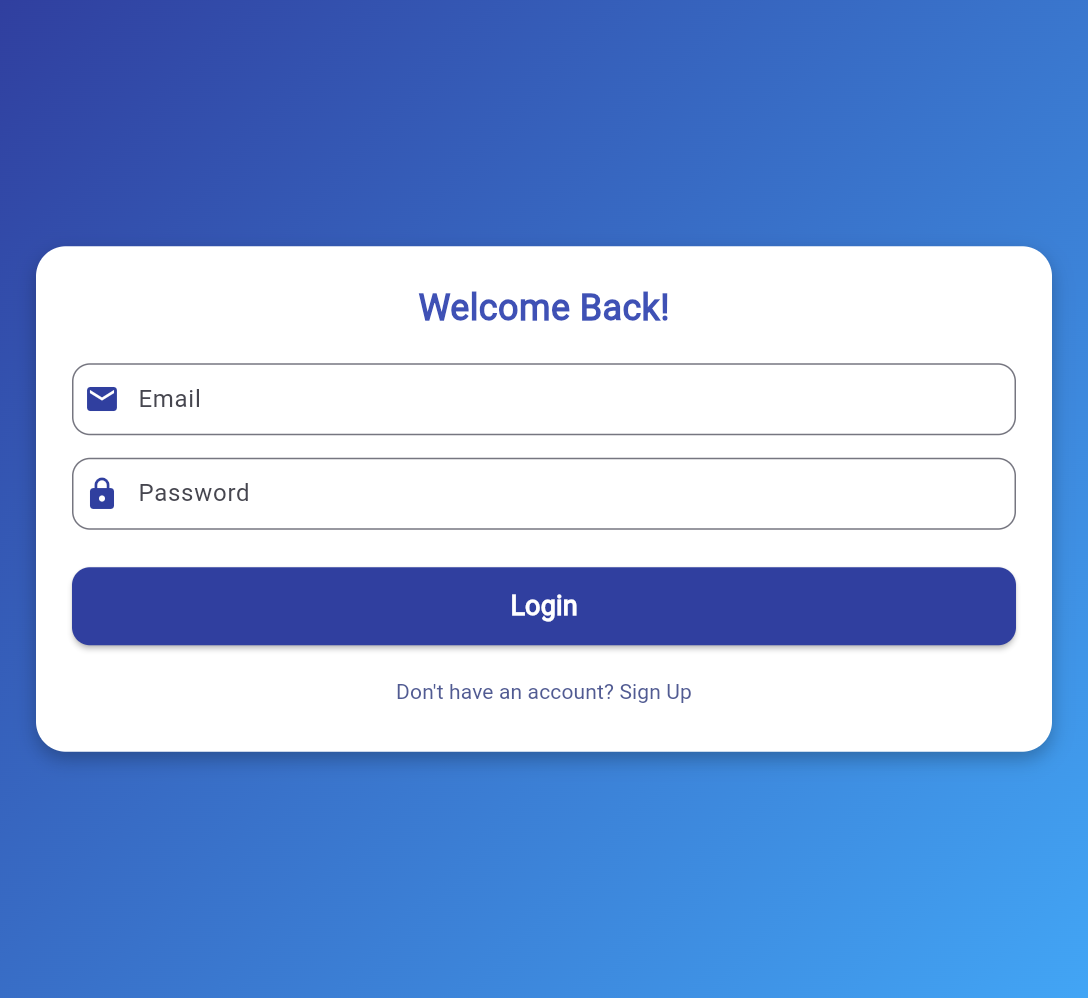
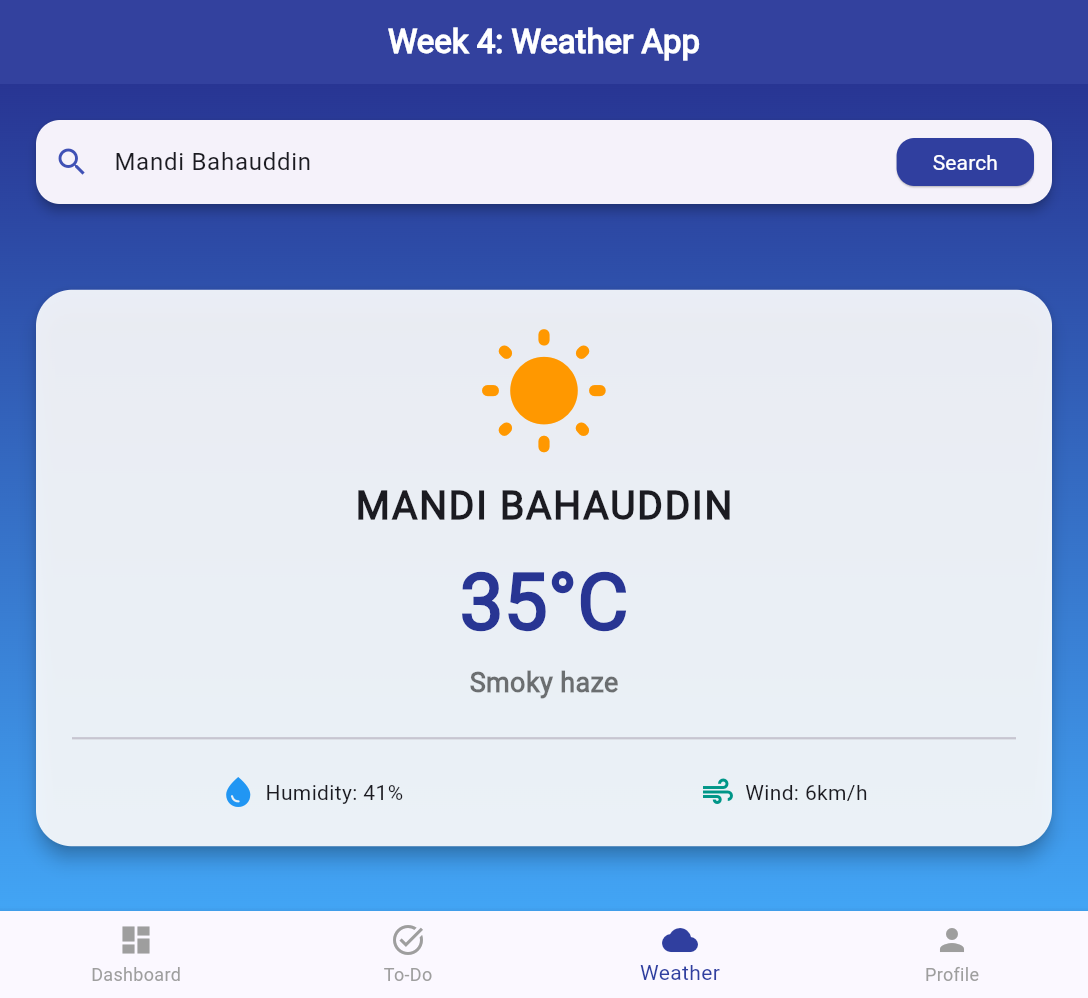
Updated screenshots with correct names from user

diff --git a/README.md b/README.md
@@ -136,9 +136,9 @@ flutter run
 
 ## 📸 Screenshots
 
-| Login | Dashboard | To-Do App | Weather | Weather Result | Error |
-|:---:|:---:|:---:|:---:|:---:|:---:|
-| ![Login](screenshots/login.png) | ![Dashboard](screenshots/dashboard.png) | ![To-Do](screenshots/todo.png) | ![Weather](screenshots/weather.png) | ![Result](screenshots/weather_result.png) | ![Error](screenshots/error.png) |
+| Login Screen | Dashboard | To-Do App | Weather |
+|:---:|:---:|:---:|:---:|
+| ![Login](screenshots/login.png) | ![Dashboard](screenshots/Week%204%20Dashboard.png) | ![To-Do App](screenshots/TO-DO%20APP.png) | ![Weather](screenshots/Weather.png) |
 
 ## 📊 Complete Internship Summary
 
